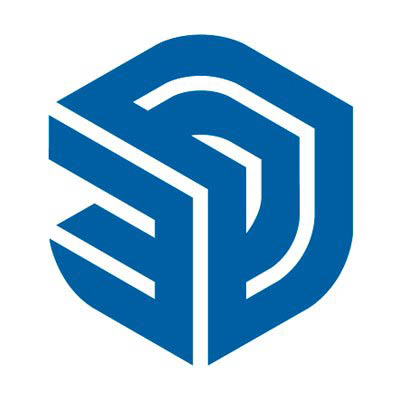
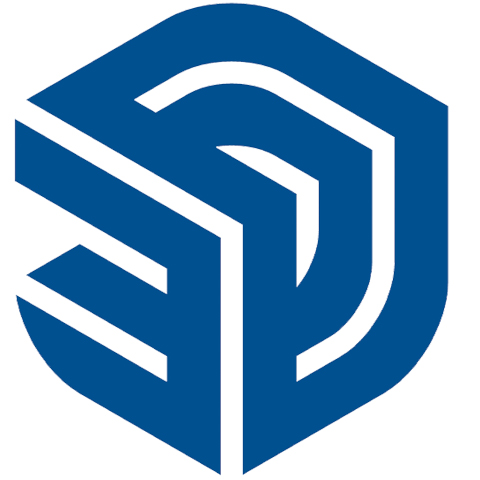
Updated images

diff --git a/src/data/activitiesData.js b/src/data/activitiesData.js
@@ -1,7 +1,7 @@
 import React from 'react'
 import shavedIceImage from '../images/shavedIceParadise.jpg'
 import comResImage from '../images/communityResources.jpg'
-import minesFoundationImage from '../images/minesFoundation.png'
+import minesFoundationImage from '../images/minesFoundation.jpg'
 
 const allActivities = [
   {

diff --git a/src/data/achievementsData.js b/src/data/achievementsData.js
@@ -1,7 +1,7 @@
 import eagleImage from '../images/eagle.jpg'
 import icrImage from '../images/icr.jpg'
 import minesImage from '../images/mines.jpg'
-import googleImage from '../images/google.png'
+import googleImage from '../images/google.jpg'
 
 const allAchievements = [
   {
